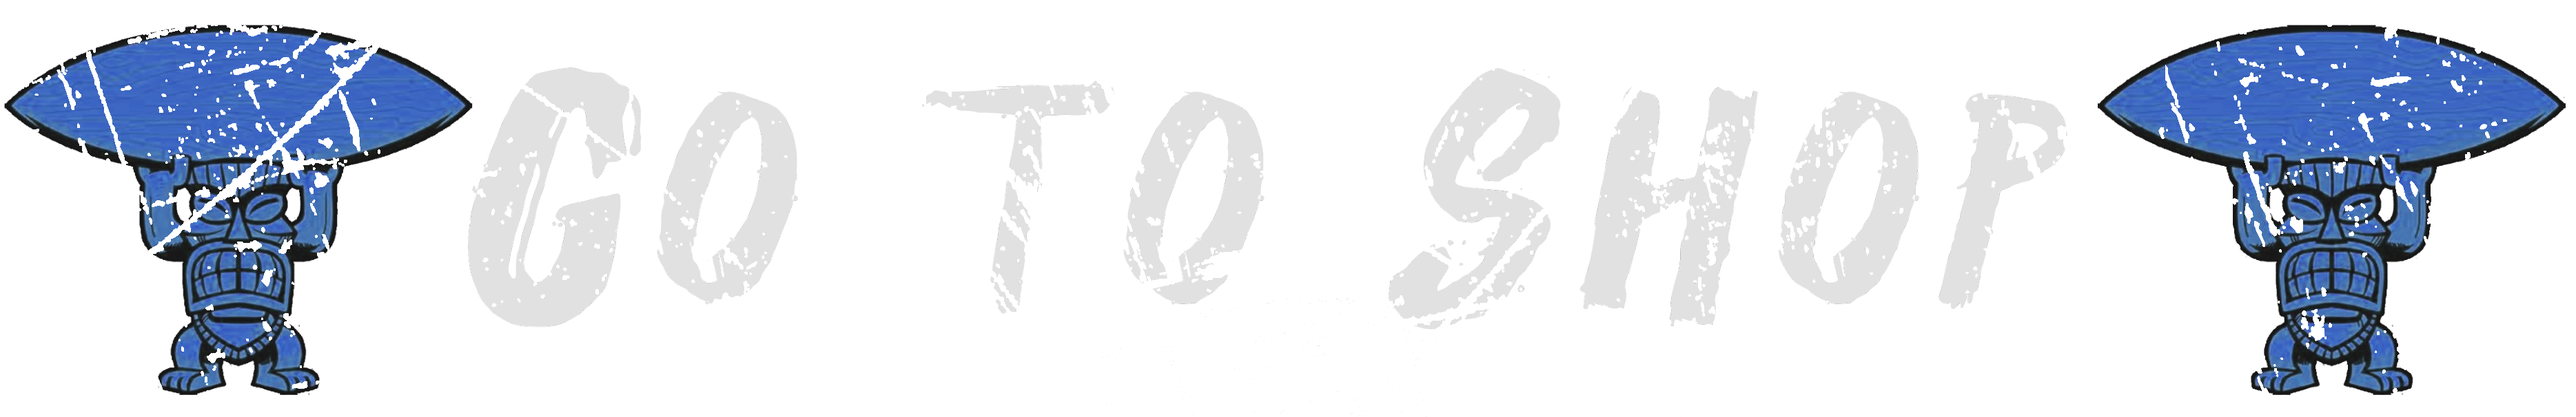
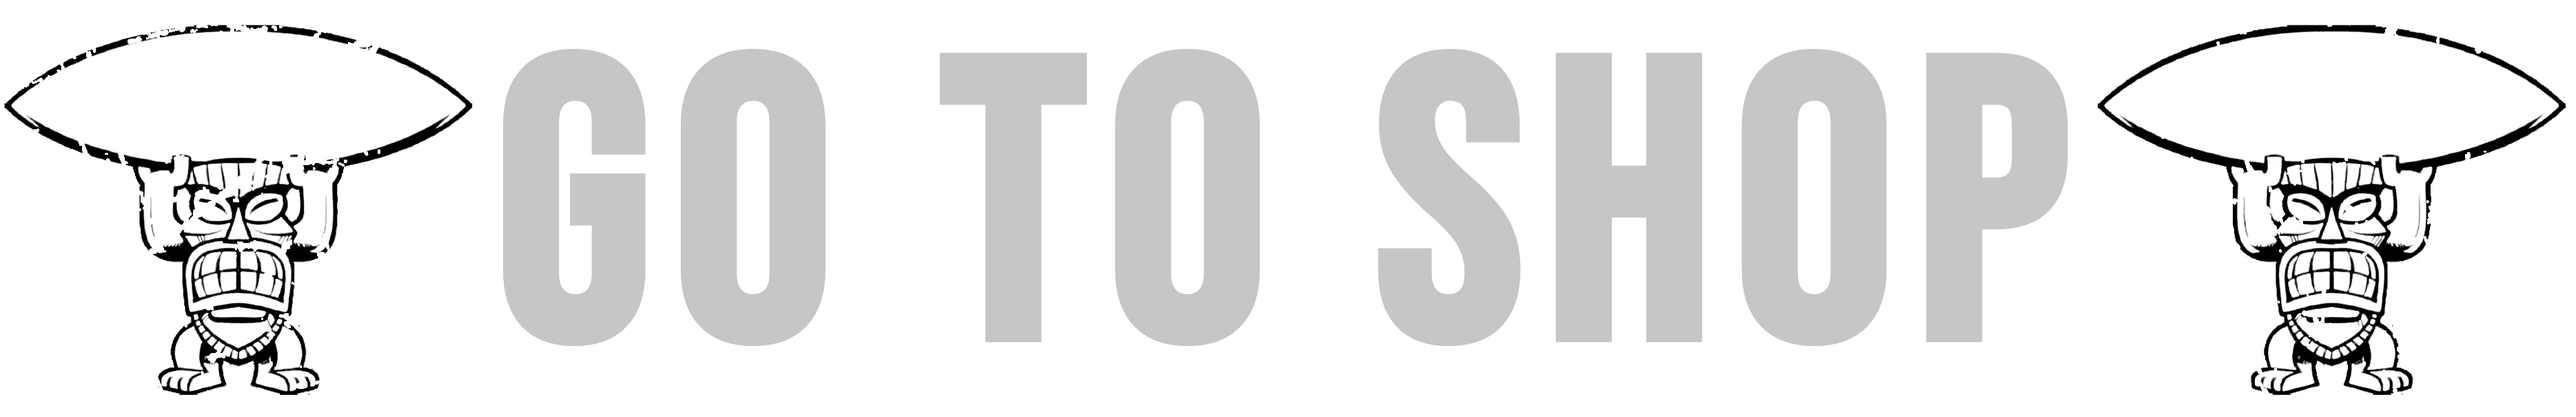
Style Changes
123

diff --git a/FrontEnd/Styles/HomePage.css b/FrontEnd/Styles/HomePage.css
@@ -10,16 +10,18 @@
                            	Container for ALL products                                
 --------------------------------------------------------------------------*/
 #first-line {
-	margin-top: 10vh;
+	margin-top: 6vh;
 	margin-bottom: 10vh;
 }
 
 #first-line h1 {
 	text-align: center;
-	margin-bottom: 1vh;
+	margin-bottom: 3vh;
 	font-size: 3rem;
 	color: white;
-	border-bottom: 4px solid white;
+	padding-block: 1vh;
+	border-top: 1px solid white;
+	border-bottom: 1px solid white;
 }
 
 .products-container {
@@ -31,7 +33,6 @@
 	padding-inline: 1vw;
 	justify-content: center;
 	padding-bottom: 1vh;
-	border-bottom: 4px solid white;
 }
 
 .products-container h1 {

diff --git a/BackEnd/server.js b/BackEnd/server.js
@@ -84,15 +84,13 @@ nextApp.prepare().then(() => {
 		refreshProductsDatabase();
 	}, FIVE_MINUTES_MS);
 
-	/*
 	markProductPublishingSucceeded(
-		"6838a086ea1cf51f95060911",
-		"6838a086ea1cf51f95060911",
-		"https://beachandbarwear.com/ViewProductPage/6838a086ea1cf51f95060911"
+		"683a4222abf107a0cc050d17",
+		"683a4222abf107a0cc050d17",
+		"https://beachandbarwear.com/ViewProductPage/683a4222abf107a0cc050d17"
 	);
-	*/
 
-	//markAsNightClothing("6838a1bc449ad46c85074c5d");
+	//markAsNightClothing("");
 
 	/*---------------------------------------------------------------------------------------------
                                         Server Start

diff --git a/FrontEnd/pages/HomePage.jsx b/FrontEnd/pages/HomePage.jsx
@@ -39,7 +39,7 @@ const HomePage = () => {
 					</div>
 				) : (
 					<div id="first-line">
-						<h1>Summer Collection</h1>
+						<h1>Summer Arrivals Collection</h1>
 						<div className="products-container">
 							{visibleProducts.map((p) => (
 								<ProductCard key={p.id} product={p} />

diff --git a/FrontEnd/Styles/ProductCard.css b/FrontEnd/Styles/ProductCard.css
@@ -57,7 +57,7 @@
 .price-section {
 	list-style-type: none;
 	text-align: center;
-	background-color: hsla(189, 74%, 54%, 0.2);
+	background-color: hsla(0, 0%, 67%, 0.2);
 	padding: 0.25rem;
 	font-size: 1.25rem;
 	border-radius: 1rem;
